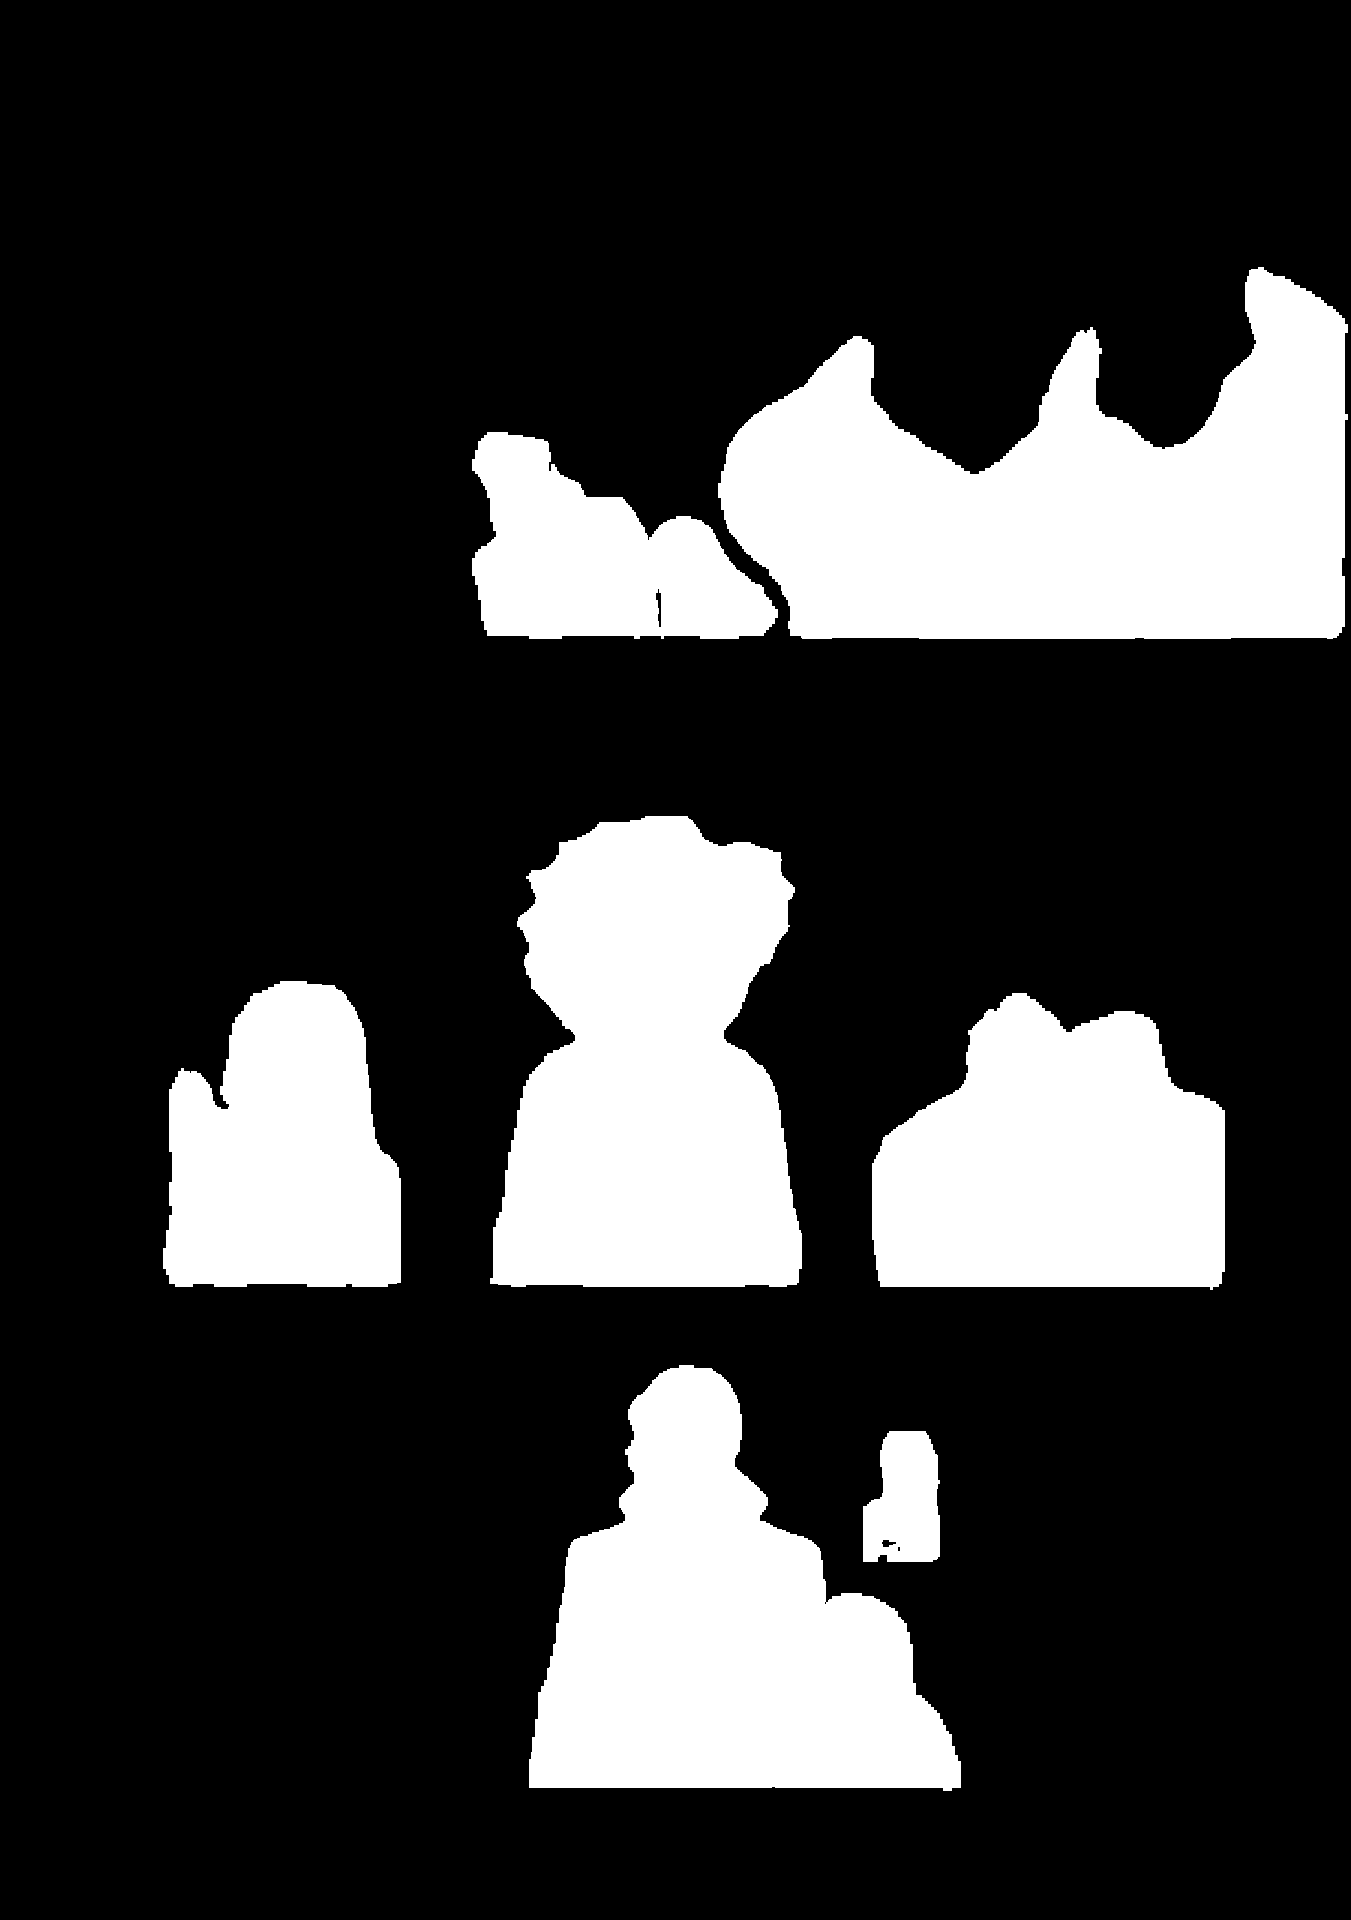
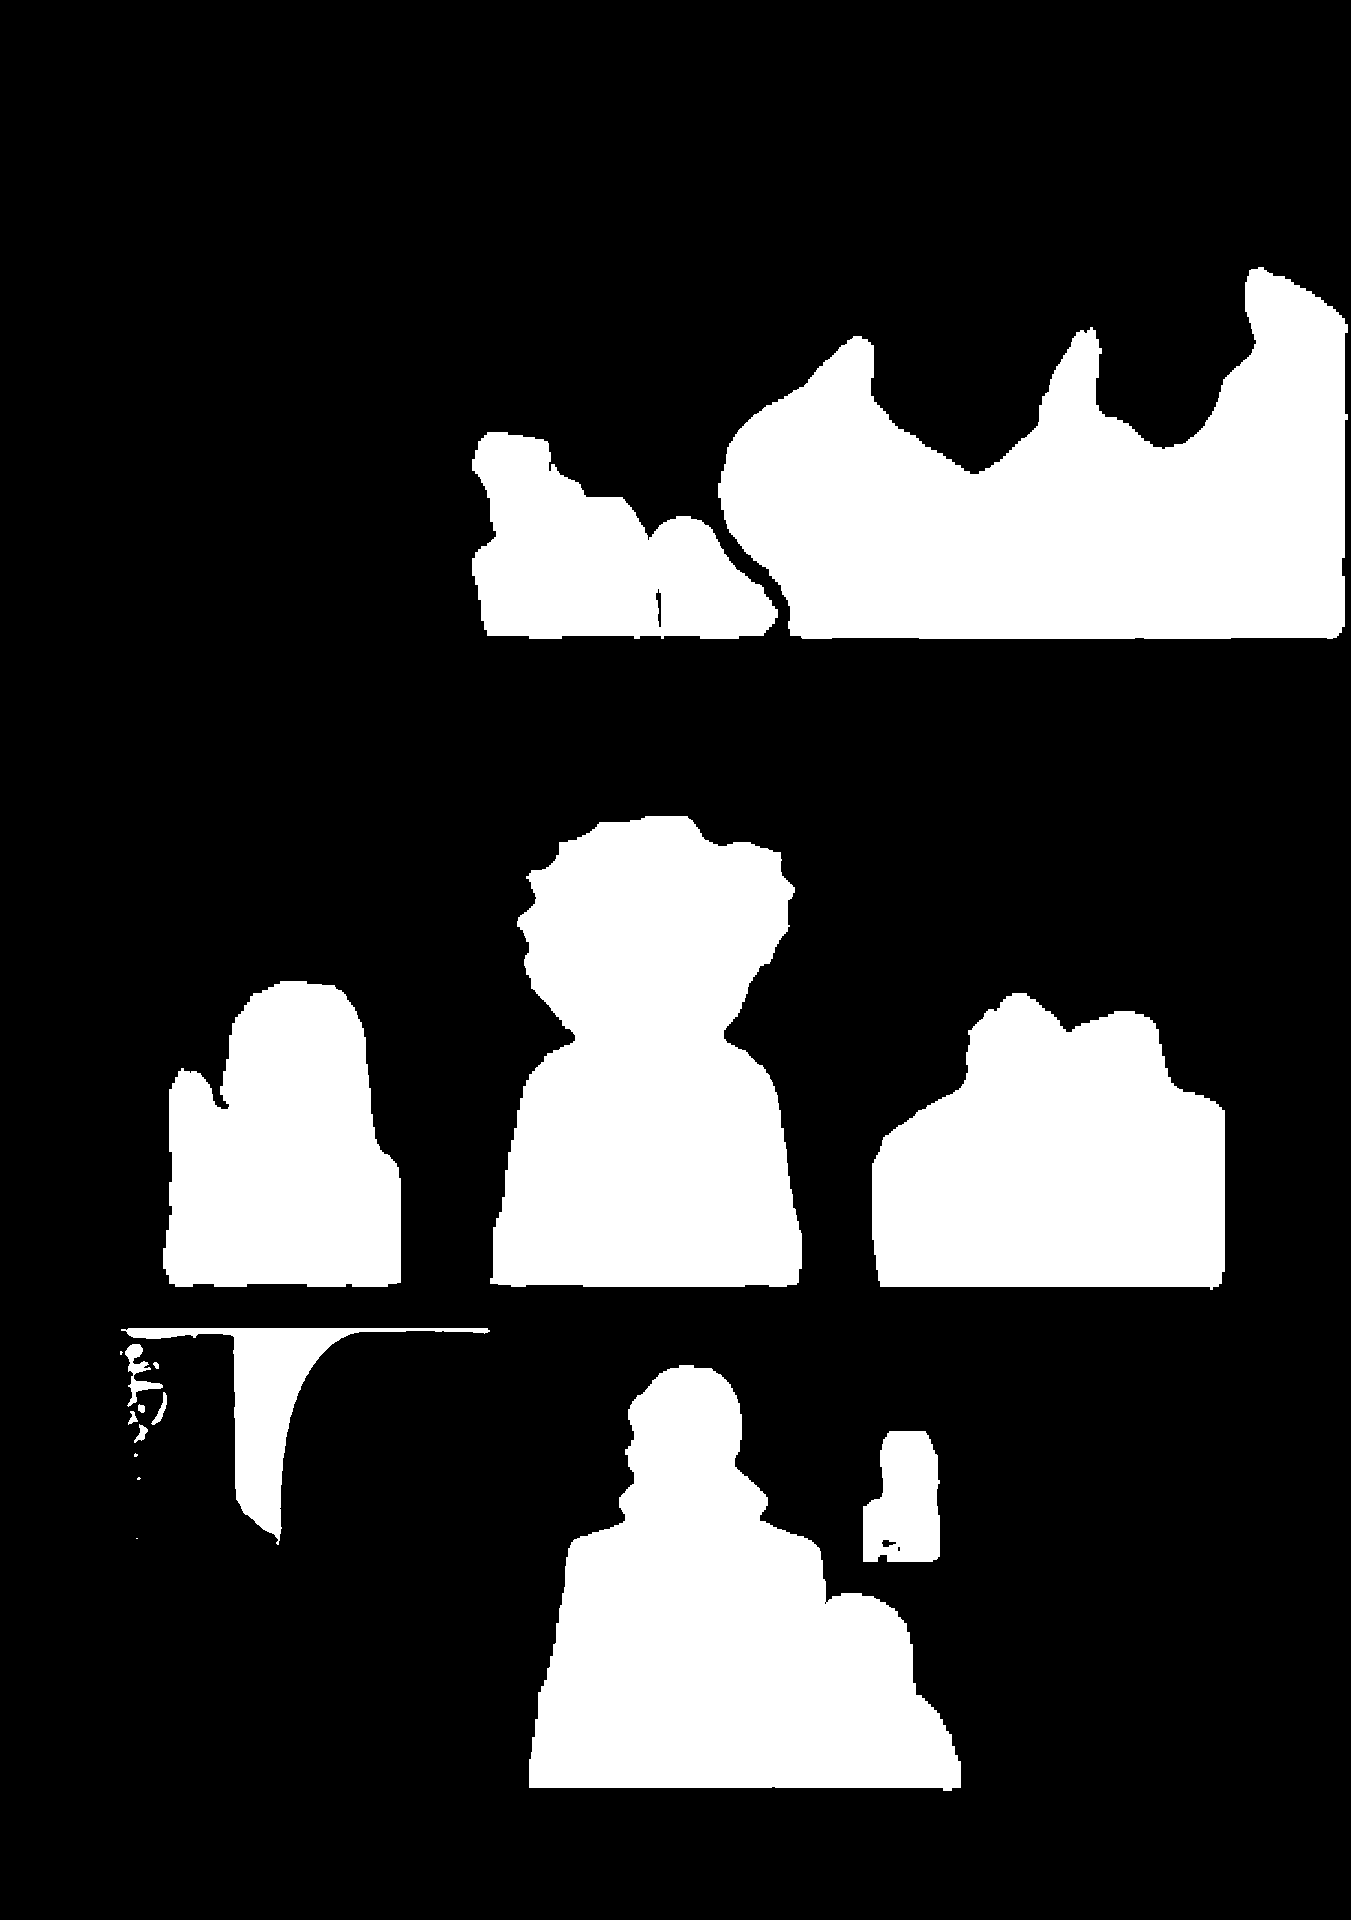
修白泡：isnet 只在漏抄框內採用（三合一全聯集把整顆泡當人物）
使用者：「還是有白色泡泡，檢查，修正」。歸戶量測：那些白泡 cseg 0% / yoloseg 0% / **isnet 100%**——
isnet 是肥遮罩（彩色動畫訓練），會把整顆對話泡當人物 ⇒ 泡被人物保護還原成灰。它的價值只在補漏
（ch34_006 那隻手：cseg 0 / yoloseg 0 / isnet 100），所以改成**只在漏抓框裡採用**：manga109 偵測框內、
精準遮罩（cseg∪yoloseg）覆蓋 <15% 的框才讓 isnet 進來（charmask.py 新增 combine 模式，定案配方）。

  遮罩                    違規  亮區   白泡 px
  無遮罩                   55  40.3%  20.6 萬（底線）
  cseg∪yoloseg             32  39.9%  20.7 萬
  三合一全聯集              30  41.0%  31.3 萬  ← 回報
  精準∪(isnet∩漏抓框)定案   31  39.9%  21.9 萬

新增 nightread_bubblecheck.py（白泡量測：字筆畫外擴 20px 內、原白、成品仍亮、≥1500px 連通塊）。
殘餘 21 萬 px 幾乎都不是泡（標題字/效果字/名牌/彩頁淡色泡）。

兩條試過不採：① 封閉泡救回（BUBBLE_ENCLOSE_MIN，預設關）——「邊界是墨線」臉也符合，demo03 臉 0→94%；
② 偽泡在精準遮罩外贏（NIGHTREAD_CHARMASK_PRECISE，預設關）——救得回 demo03 彩頁最後一顆，代價同頁指尖
0→57%，方向錯誤。fixtures/charmask 換成定案遮罩、baseline 同步。

Claude-Session: https://claude.ai/code/session_01XtwF9HNRYUY6CUdFutuMJa

Changed region(s): [[0.0933, 0.6875, 0.2798, 0.8125]]

diff --git a/research/charmask.py b/research/charmask.py
@@ -22,6 +22,7 @@
   python3 charmask.py isnet              # 全 fixture 頁 → out/char_isnet/<page>_char.png
   python3 charmask.py yolodet --kinds body face
   python3 charmask.py yoloseg demo01     # 需 pip install ultralytics（AGPL-3.0，僅研究端）
+  python3 charmask.py combine            # 定案配方：cseg ∪ yoloseg ∪ (isnet ∩ 漏抓框) → out/char_combine
 """
 import argparse
 import glob
@@ -162,7 +163,32 @@ def run_cseg(pages, outdir, size=640, score=0.3, model="cartoonseg.onnx"):
         yield p, mask
 
 
-RUNNERS = {"isnet": run_isnet, "yolodet": run_yolodet, "yoloseg": run_yoloseg, "cseg": run_cseg}
+# ── combine（定案配方）────────────────────────────────────────────────
+def run_combine(pages, outdir, base=("cseg", "yoloseg"), gap="isnet", boxes_dir="char_yolodet", min_cov=0.15):
+    """定案遮罩 = 精準遮罩（cseg ∪ yoloseg）∪（isnet ∩ 漏抓框）。
+
+    isnet 是肥遮罩（彩色動畫訓練、會把整顆對話泡當人物 ⇒ 泡被人物保護還原成灰＝使用者回報的
+    「白色泡泡」），但它漏的跟另外兩顆不同（ch34_006 那隻手：cseg 0% / yoloseg 0% / isnet 100%）。
+    ⇒ 只在「manga109 偵測框內、精準遮罩覆蓋 < min_cov」的漏抓框裡採用 isnet。
+    實測（A 模式）：三合一全聯集 違規 30 / 白泡 31 萬 px；本配方 違規 31 / 白泡 22 萬（無遮罩底線 21 萬）。
+    需先跑：charmask.py cseg / yoloseg / isnet / yolodet --kinds body face（產 boxes.json）。"""
+    import json
+    with open(os.path.join(paths.OUT, boxes_dir, "boxes.json"), encoding="utf-8") as f:
+        boxes = json.load(f)
+    for p in pages:
+        name = os.path.splitext(os.path.basename(p))[0]
+        ms = [cv2.imread(os.path.join(paths.OUT, f"char_{b}", f"{name}_char.png"), 0) > 127 for b in base]
+        prec = np.logical_or.reduce(ms)
+        g = cv2.imread(os.path.join(paths.OUT, f"char_{gap}", f"{name}_char.png"), 0) > 127
+        veto = np.zeros_like(prec)
+        for x0, y0, x1, y1 in boxes.get(name, []):
+            if x1 > x0 and y1 > y0 and prec[y0:y1, x0:x1].mean() < min_cov:
+                veto[y0:y1, x0:x1] = True
+        yield p, ((prec | (g & veto)).astype(np.uint8) * 255)
+
+
+RUNNERS = {"isnet": run_isnet, "yolodet": run_yolodet, "yoloseg": run_yoloseg, "cseg": run_cseg,
+           "combine": run_combine}
 
 
 def main():

diff --git a/research/nightread_bubblecheck.py b/research/nightread_bubblecheck.py
@@ -1,0 +1,49 @@
+#!/usr/bin/env python3
+"""nightread_bubblecheck.py — 「白泡」量測：成品裡字附近仍是白底的面積。
+
+  IN  ＝在氣泡遮罩內、非筆畫、原白、成品仍亮  → 偵測到卻沒填（機制 bug）
+  OUT ＝不在氣泡遮罩、字筆畫外擴 20px 內、非筆畫、原白、成品仍亮 → 沒被當成泡（分類漏）
+兩者皆以 ≥1500px 的連通塊計（小碎塊是行間白/描邊縫，不算）。
+用法：python3 nightread_bubblecheck.py out/nr_xxx [out/nr_yyy ...]
+"""
+import glob, os, sys
+import cv2, numpy as np
+sys.path.insert(0, os.path.dirname(os.path.abspath(__file__)))
+import paths  # noqa
+
+PAGES = ["ch34_006", "ch34_010", "ch34_011", "ch34_014", "ch34_015",
+         "demo01", "demo02", "demo03", "demo04", "demo05", "demo06"]
+K3 = cv2.getStructuringElement(cv2.MORPH_ELLIPSE, (7, 7))
+K20 = cv2.getStructuringElement(cv2.MORPH_ELLIPSE, (41, 41))
+
+
+def measure(d, verbose=False):
+    tin = tout = 0
+    blobs = []
+    for n in PAGES:
+        b = cv2.imread(f"{d}/{n}_bubble.png", 0) > 0
+        f = cv2.imread(f"{d}/{n}_final.png", 0)
+        g = cv2.imread(sorted(glob.glob(os.path.join(paths.SANDBOX_TEST, n + ".*")))[0], 0)
+        seg = cv2.imread(f"{d}/{n}_seg.png", 0) > 0
+        segd = cv2.dilate(seg.astype(np.uint8), K3) > 0
+        near = cv2.dilate(seg.astype(np.uint8), K20) > 0
+        white = g >= 235
+        for tag, m in (("IN", b & ~segd & white & (f >= 110)),
+                       ("OUT", near & ~b & ~segd & white & (f >= 110))):
+            nn, lab, st, _ = cv2.connectedComponentsWithStats(m.astype(np.uint8), 8)
+            for i in range(1, nn):
+                a = int(st[i, cv2.CC_STAT_AREA])
+                if a >= 1500:
+                    blobs.append((a, n, tag, tuple(int(v) for v in st[i, :4])))
+                    if tag == "IN": tin += a
+                    else: tout += a
+    if verbose:
+        for a, n, tag, (x, y, w, h) in sorted(blobs, reverse=True)[:12]:
+            print(f"    {a:7d} {n:10s} {tag:4s} x{x} y{y} {w}x{h}")
+    return tin, tout, blobs
+
+
+if __name__ == "__main__":
+    for d in sys.argv[1:]:
+        tin, tout, blobs = measure(d)
+        print(f"== {d}: 白泡 IN {tin} px / OUT {tout} px（塊數 {len(blobs)}）==")

diff --git a/docs/DECISIONS.md b/docs/DECISIONS.md
@@ -23,7 +23,7 @@
 
 紅線問題解決：**違規 55 → 6 框，亮區只付 2.9pt**（純幾何路線最好是 37 框且要付 14pt）。
 
-**定案配方**：`cseg ∪ yoloseg` 遮罩、**貼墨收邊 r=1 / pad=1**（`CHAR_SNAP`＋`CHAR_SNAP_PAD`，邊緣離墨線 **1.00px**）、**灰暈關閉**（`AURA_R=0`）、
+**定案配方**：`cseg ∪ yoloseg ∪ (isnet ∩ 漏抓框)` 遮罩（`charmask.py combine`）、**貼墨收邊 r=1 / pad=1**（`CHAR_SNAP`＋`CHAR_SNAP_PAD`，邊緣離墨線 **1.00px**）、**灰暈關閉**（`AURA_R=0`）、
 `CHAR_OVER_BUBBLE=1`（人物優先於氣泡）、**字貼身暗襯 r=5**（`TEXT_BACKING_R`）。全部已是程式預設。
 
 **邊界細緻化（2026-09-15，使用者：角色外圍留白「越細越好」）**：兩個來源。① **灰暈**（`AURA_R=30`）
@@ -74,6 +74,32 @@ r=8 → 17/41.2%、r=12 → 12/41.6%。
 畫面分出來的——lin8 把白描邊壓到 140、畫面也落在 90–140 ⇒ 描邊失效、字埋進畫面（demo01 上兩格
 實例，使用者回報）。修法＝人物區還原時留一條貼著筆畫的窄帶不還原，該帶維持「填深＋亮字」。
 窄帶處原本就被字本身遮住 ⇒ 不損人物細節。代價＝多 3 框（襯底壓在人物上），亮區不變。
+
+**★ 遮罩三合一的正確組法（2026-09-15，使用者兩次回報「白色泡泡」）**：isnet 是肥遮罩（彩色動畫訓練），
+會把**整顆對話泡當人物** ⇒ 泡被人物保護還原成灰＝白泡。量測：那些白泡 cseg 0% / yoloseg 0% / **isnet 100%**。
+但 isnet 漏的跟另外兩顆不同（ch34_006 那隻手：cseg 0 / yoloseg 0 / isnet 100）⇒ 它的價值只在補漏。
+定案＝**只在漏抓框裡採用 isnet**：manga109 偵測器的 body/face 框內、精準遮罩（cseg∪yoloseg）覆蓋 <15%
+的框（＝偵測器說有人、精準遮罩沒抓到）才讓 isnet 進來。結果（A 模式）：
+
+| 遮罩 | 違規 | 亮區 | 白泡（字附近仍白底，px） |
+|---|---|---|---|
+| 無遮罩 | 55 | 40.3% | 20.6 萬（底線＝管線本來沒填的） |
+| cseg ∪ yoloseg | 32 | 39.9% | 20.7 萬 |
+| 三合一全聯集 | 30 | 41.0% | **31.3 萬** ← 白泡回報 |
+| **精準 ∪ (isnet ∩ 漏抓框)（定案）** | 31 | 39.9% | 21.9 萬 |
+
+白泡量測＝`research/nightread_bubblecheck.py`（字筆畫外擴 20px 內、原白、成品仍亮、≥1500px 的連通塊）。
+剩餘 21 萬 px 幾乎都不是泡（標題字「つづく」、效果字「ぼ」、名牌「先生」、彩頁淡色泡）。
+
+**兩條試過的路（不要重試）**：① **封閉泡救回**（`BUBBLE_ENCLOSE_MIN`，預設關）＝對留白/格內白元件也跑文字
+種子核心填色、用「邊界墨線比」判封閉——臉也符合（髮際線/下巴線），demo03 臉 0→94%、demo05 Q版臉 0→87%；
+精準遮罩覆蓋率當判別器只能分出 4 個誤抓裡的 2 個（demo01 白刺髮小人精準遮罩只蓋 5%，跟真泡分不開）。
+② **偽泡在精準遮罩外贏過人物保護**（`NIGHTREAD_CHARMASK_PRECISE=<dir>`，預設關）＝能救 demo03 彩頁那顆
+最後的白泡（白泡 21.0 萬≈底線），代價是同頁一個指尖 0→57%——方向錯誤（紅線＝失敗只准「不夠暗」），
+留旗標不當預設。
+
+**真泡永遠贏過人物保護**（同日修）：氣泡是畫在畫面之上的圖層、遮住後面的人物，還原成「人物的場景調」在
+語意上就是錯的（`restore &= ~bubble` 無條件）；`CHAR_OVER_BUBBLE` 只管偽泡。
 
 **首選模型＝CartoonSegmentation / AnimeInstanceSegmentation**（RTMDet-Ins + IS-Net）：
 **MIT 權重**（比 yoloseg 乾淨——後者要背 Ultralytics AGPL + Manga109-s + MangaSeg 三層義務）、
